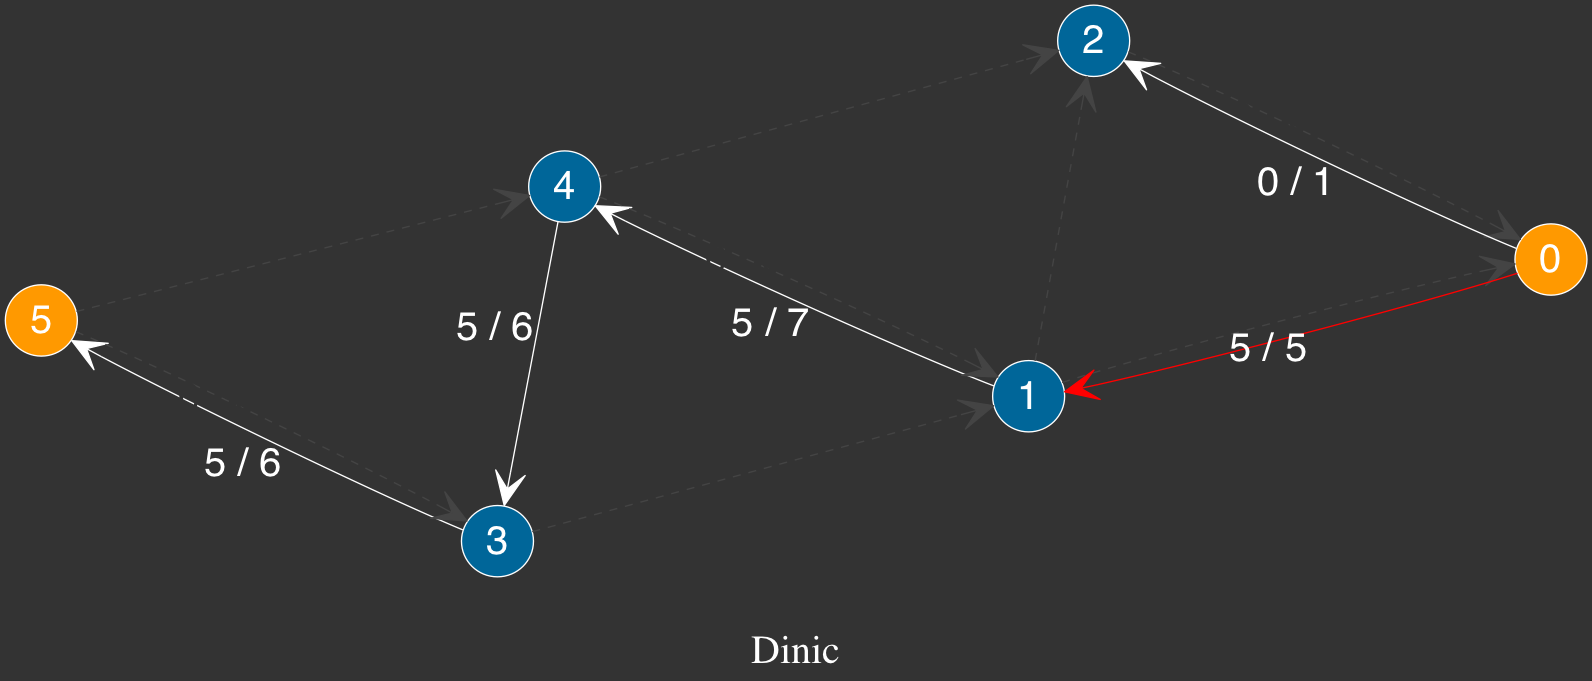
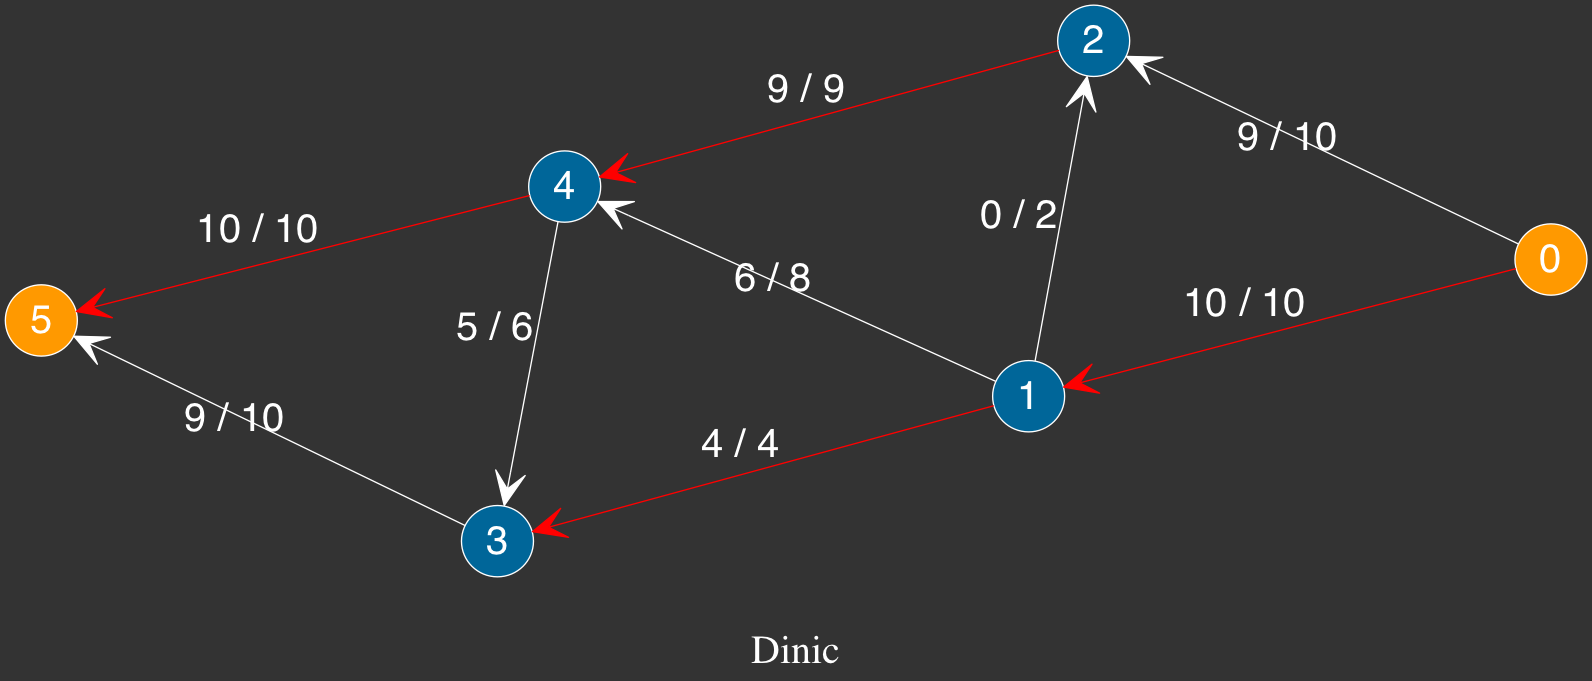
show full flow at end

diff --git a/maxflow/dinic.py b/maxflow/dinic.py
@@ -104,7 +104,8 @@ class DinicImageSequence(ImageSequence):
             if self.dist[self.sink] == INF:
                 self.done = True
                 print 'completed dinics'
-                return None
+                self.title = 'Completed!'
+                return graph_image(self.graph, highlight_path=None, capacities=self.graph_capacity_adj)
             else:
                 # find blocking flow
                 print 'finding blocking flow'
